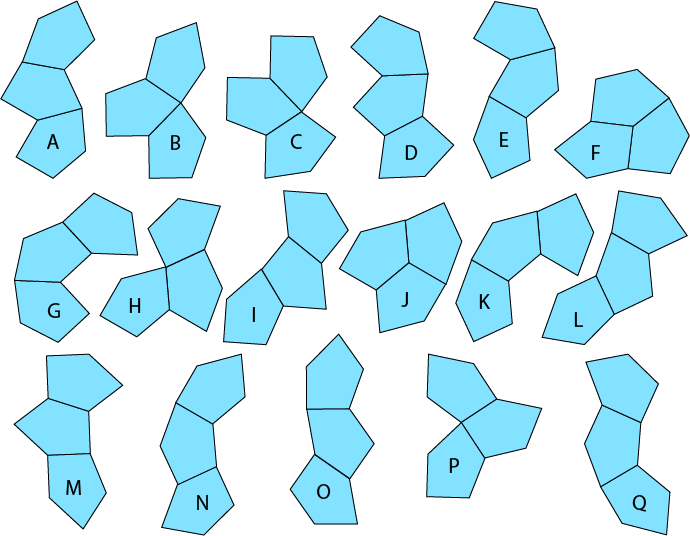
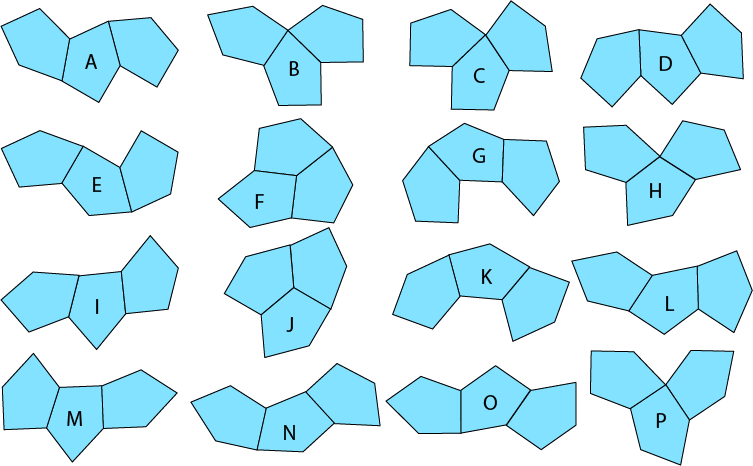
Q was a dup of N. Removed it

diff --git a/src/Piece.java b/src/Piece.java
@@ -182,6 +182,7 @@ public class Piece {
         },
         {   // Piece C
             {3, 1, 0},  // Upside down L
+            {3, 5, 0},
             {3, 0, 1},
             {3, 4, 1},
             {3, 3, 2},
@@ -307,6 +308,7 @@ public class Piece {
         },
         {   // Piece L
             {0, 1, 0},  // Face up I
+            {0, 5, 0},
             {0, 2, 1},
             {0, 3, 2},
             {0, 0, 3},
@@ -369,6 +371,7 @@ public class Piece {
             {5, 2, 3},
             {5, 6, 3},
             {5, 1, 4},
+            {5, 5, 4},
             {3, 3, 0},  // Upside down L
             {3, 2, 1},
             {3, 6, 1},
@@ -377,17 +380,6 @@ public class Piece {
             {3, 0, 3},
             {3, 4, 3},
             {3, 3, 4}
-        },
-        {   // Piece Q
-            {1, 0, 0},  // Normal I
-            {1, 4, 0},
-            {1, 2, 2},
-            {1, 6, 2},
-            {0, 1, 1},  // Face-up I
-            {0, 5, 1},
-            {0, 3, 3},
-            {0, 1, 5},
-            {0, 5, 5}
         }
     };
 
@@ -411,7 +403,6 @@ public class Piece {
     public final static int N = 13;
     public final static int O = 14;
     public final static int P = 15;
-    public final static int Q = 16;
 
     /****
      * The number of distinct Pieces
@@ -437,17 +428,17 @@ public class Piece {
      * Factory method to create the collection of 16 Piece objects.
      * 
      * 
-     * @param pNo   The number of the Piece to repeat in the set of Pieces to be used in
-     *              solving the puzzle. -1 ==> Don't include a repeated Piece.
-     * @return      Piece[] containing the instantiated pieces
+     * @param extras    The numbers of the Piece(s) to repeat in the set of Pieces to be used in
+     *                  solving the puzzle.
+     * @return          Piece[] containing the instantiated pieces
      ****/
-    public static Piece[] makePieces(int pNo) {
-        Piece[] answer = new Piece[pNo == -1 ? N_PIECES : N_PIECES + 1];
+    public static Piece[] makePieces(int[] extras) {
+        Piece[] answer = new Piece[N_PIECES + extras.length];
         for (int i = 0; i < N_PIECES; i++) {
             answer[i] = new Piece(i);
         }
-        if (pNo != -1) {
-            answer[N_PIECES] = new Piece(pNo);
+        for (int i = 0; i < extras.length; i++) {
+            answer[N_PIECES + i] = new Piece(extras[i]);
         }
         return answer;
     }

diff --git a/README.md b/README.md
@@ -11,6 +11,20 @@ duplicating and sliding the group around appropriately).
 
 ![Drawing of the base tiling](doc/BaseTiling.png)
 
+I have not found anything about the set of pieces that can be made from three of these 
+pentagons, so I investigated the set by hand. There are 146 of them. Most, however, don't appear 
+in the underlying pentagonal tiling. Of the 146, only 16 do. I've labeled the 16 relevant 
+three-pentagon pieces A, B, C, ... O, P. 
+
+![Drawing of the 16 pieces](doc/ThePieces.png)
+
+Finding solutions to puzzles made from the 3-pentagon pieces is not exactly a burning problem, 
+of course, but because the shape of of type 8 monohedral pentagons is unusual and because the 
+way they tile the plane is odd, and because many pieces tend to look like others in the set 
+even though they're different, looking for solutions to a real physical instance looks like it 
+should be hard. So I decided to see if there are solutions and, if there are, to make a 
+physical puzzle.
+
 The way they are arranged lets the pentagons in the tiling be treated as being arranged in 
 irregular rows and columns. 
 
@@ -21,30 +35,19 @@ easier to deal with in a program. Applying that same mapping to the 3-pentagon p
 in some of the common edges degenerating into points and adds constraints on where the 
 transformed pieces can be placed on the square tiling. None of this is is too complicated.
 
-Finding solutions to puzzles made from the 3-pentagon pieces is not exactly a burning problem, 
-of course, but because the shape of of type 8 monohedral pentagons is unusual and because the 
-way they tile the plane is odd, and because many pieces tend to look like others in the set 
-even though they're different, looking for solutions to a real physical instance looks like it 
-should be hard. So I decided to see if there are solutions and, if there are, to make a 
-physical puzzle.
+I chose a region on the tiling of the pentagons that is 8 x 6 pentagons (which is the right size 
+for 16 of the three-pentagon tiles) and has a pleasing shape as the "board" on which to build the 
+puzzle. (it's the one shown in the second tiling example, above.) I then developed this program 
+to search for all the ways the tiles can be placed on the board (without overlapping one another, 
+of course). 
 
-I have not found anything about the set of tiles that can be made from three of these 
-pentagons, so I developed the set by hand. There are 17 of them. I've labeled the 17 three-
-pentagon pieces A, B, C, ... O, P, Q. 
+There aren't any. There also aren't any if you repeat one the tiles, giving you a set of 17 from 
+which to select 16.
 
-![Drawing of the 17 pieces](doc/ThePieces.png)
+But it turns out that if you enlarge the set of tiles by including a duplicate of one of 
+them, there are solutions. Thirteen of them.
 
-For a board, I chose a region on the tiling of the pentagons that is 8 x 6 pentagons (which 
-is the right size for 16 of the three-pentagon tiles) and has a pleasing shape. (it's the one 
-shown in the second tiling example, above.) I then developed this program to search for all the 
-ways 16 of the 17 tiles can be placed on the board (without overlapping one another, of course). 
-
-There aren't any.
-
-But if it turns out that if you enlarge the set of tiles by including a duplicate of one of 
-them, there are a 13 solutions.
-
-For the record, the solutions are:
+For the record, here they are:
 
         01          02          03          04          05          06          07      
      ********    ********    ********    ********    ********    ********    ********   
@@ -73,7 +76,7 @@ For the record, the solutions are:
      ABDEFGHI    ABDEFGHI    ACDEFGHI    ABCDEFHI    ABCDEFGH    ABCDEFHI
      JKLNOPQF    JKLNOPQF    JKLNOPQG    JLMNOPQI    ILMNOPQO    KLMNOPQQ
    
-The letters below each solution are the names of the pieces that are used in the solution. The 
+The letters below each solution are the names of the pieces that are used in that solution. The 
 last letter tells which of the pieces was repeated. And here's what solution 01 looks like using 
 correctly shaped pieces:
 
